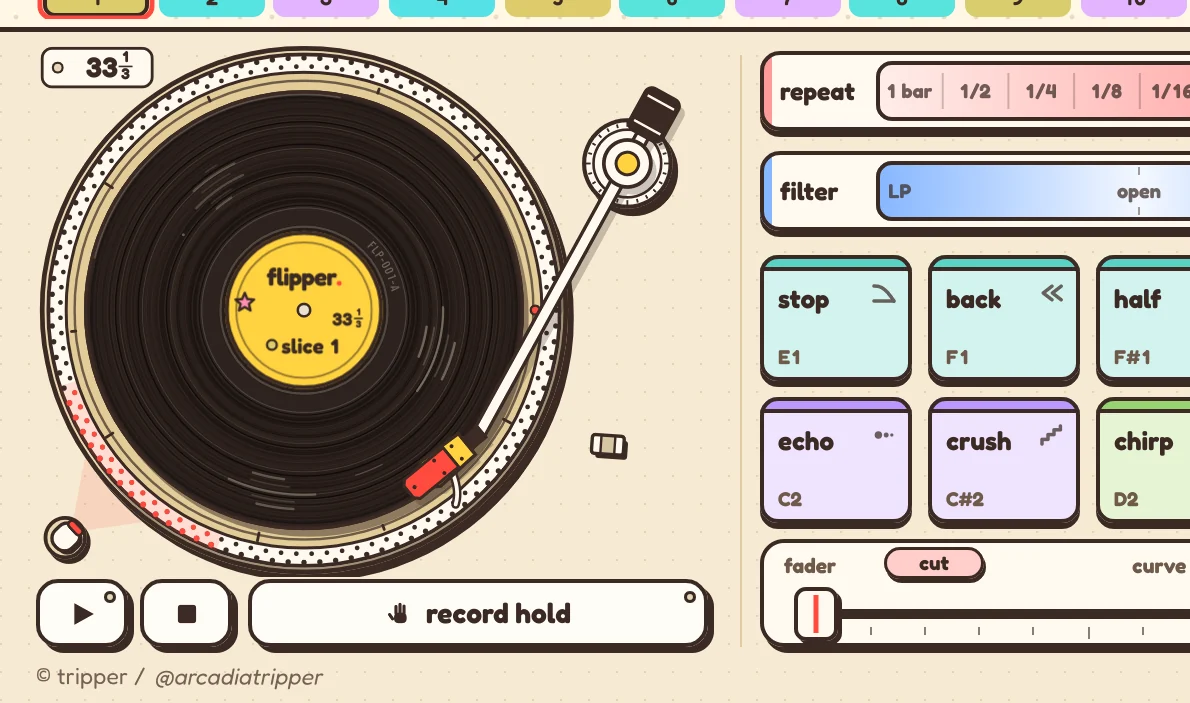
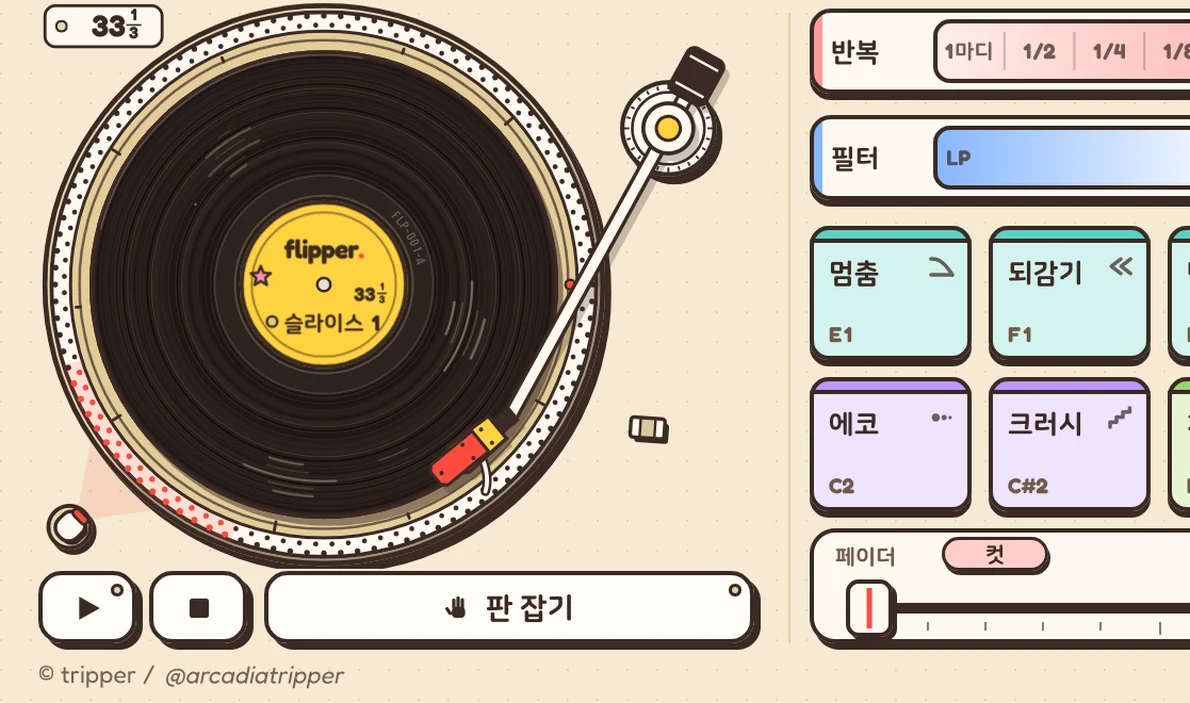
Smaller hero line; Korean scratch picture on Korean pages
Claude-Session: https://claude.ai/code/session_01SveC11bY9vUL1WuHgF6Tsh

diff --git a/assets/css/flipper.css b/assets/css/flipper.css
@@ -331,7 +331,7 @@ p {
 
 .hero__lead {
   margin-top: 20px;
-  font-size: clamp(30px, 4.6vw, 52px);
+  font-size: clamp(24px, 3.4vw, 38px);
   font-weight: 800;
   line-height: 1.25;
 }
